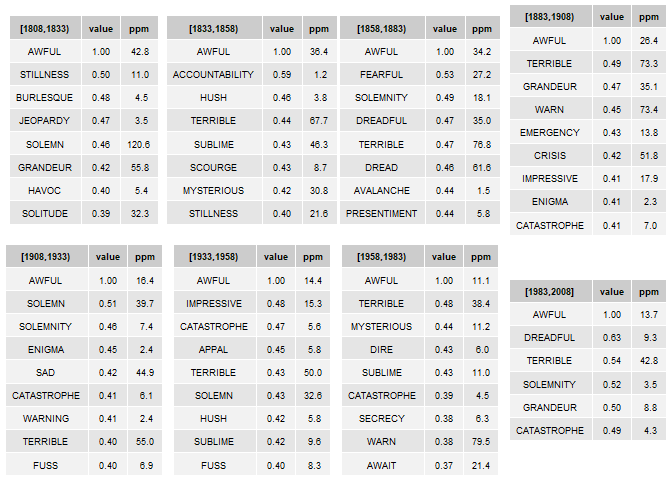
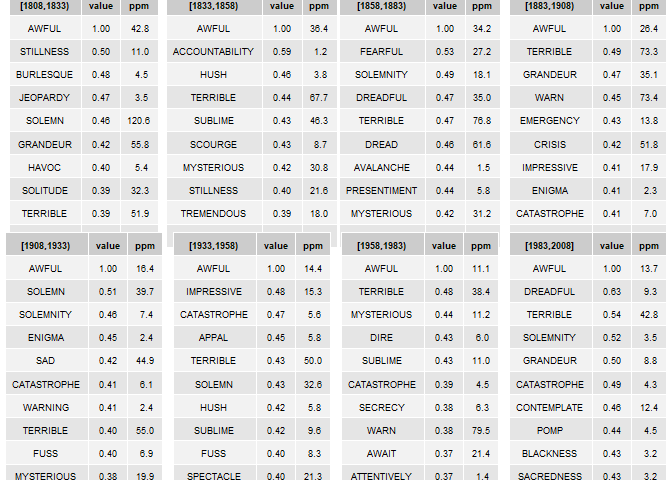
draft

diff --git a/README.md b/README.md
@@ -10,9 +10,9 @@ An R-based guide to accessing/sampling Google n-gram data & building historical 
     -   [4a Building lemma lexicon](#4a-Building-lemma-lexicon)
     -   [4b Lemmatizing terms and features](#4b-Lemmatizing-terms-and-features)
     -   [4c Filtering features based on frequency](4c-Filtering-features-based-on-frequency)
--   [5 PPMI and SVD](#7-PPMI-and-SVD)
--   [6 Exploring synonymny historically](#8-Exploring-synonymny-historically)
--   [7 Summary](#9-Summary)
+-   [5 PPMI and SVD](#5-PPMI-and-SVD)
+-   [6 Exploring synonymny historically](#6-Exploring-synonymny-historically)
+-   [7 Summary](#7-Summary)
 
 This guide focuses on working with Google n-gram data locally. So, lots of sampling & intermediary file structures. A smarter aproach to working with n-gram data in its entriety would be to build a SQL database. Here, we just want to steal some n-gram data to demonstrate a few methods & take a peak into some changes in word distributions historically.
 
@@ -493,7 +493,7 @@ for (i in 1:8) {
 Using the `neighbors` function from the `LSAfun` package.
 
 ``` r
-x <- lapply(tfms_mats, LSAfun::neighbors, x = toupper('awful'), n = 10)
+x <- lapply(tfms_mats, LSAfun::neighbors, x = toupper('awful'), n = 100)
 ```
 
 Clean output.
